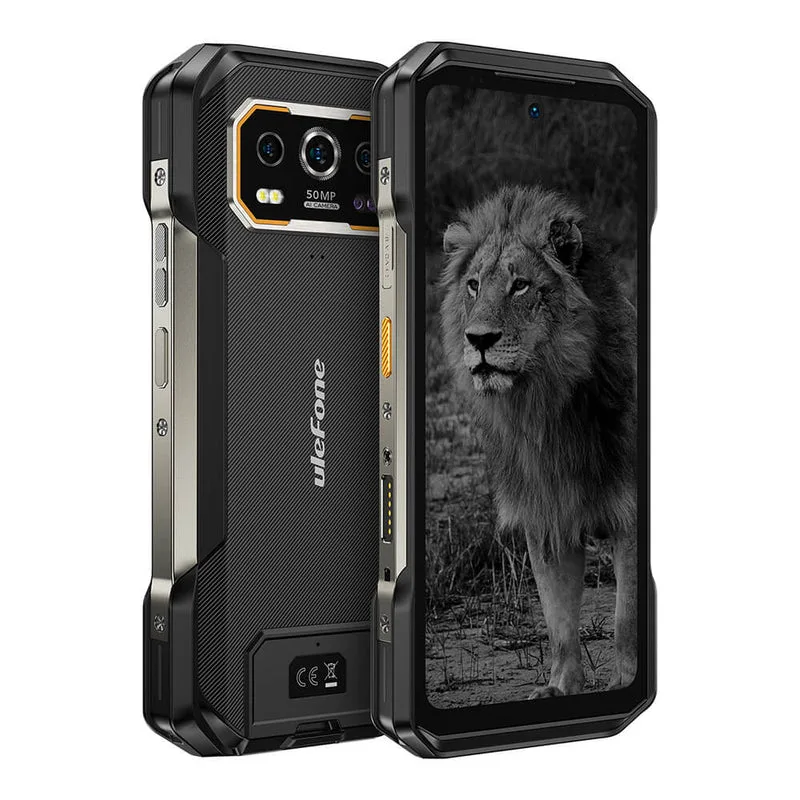
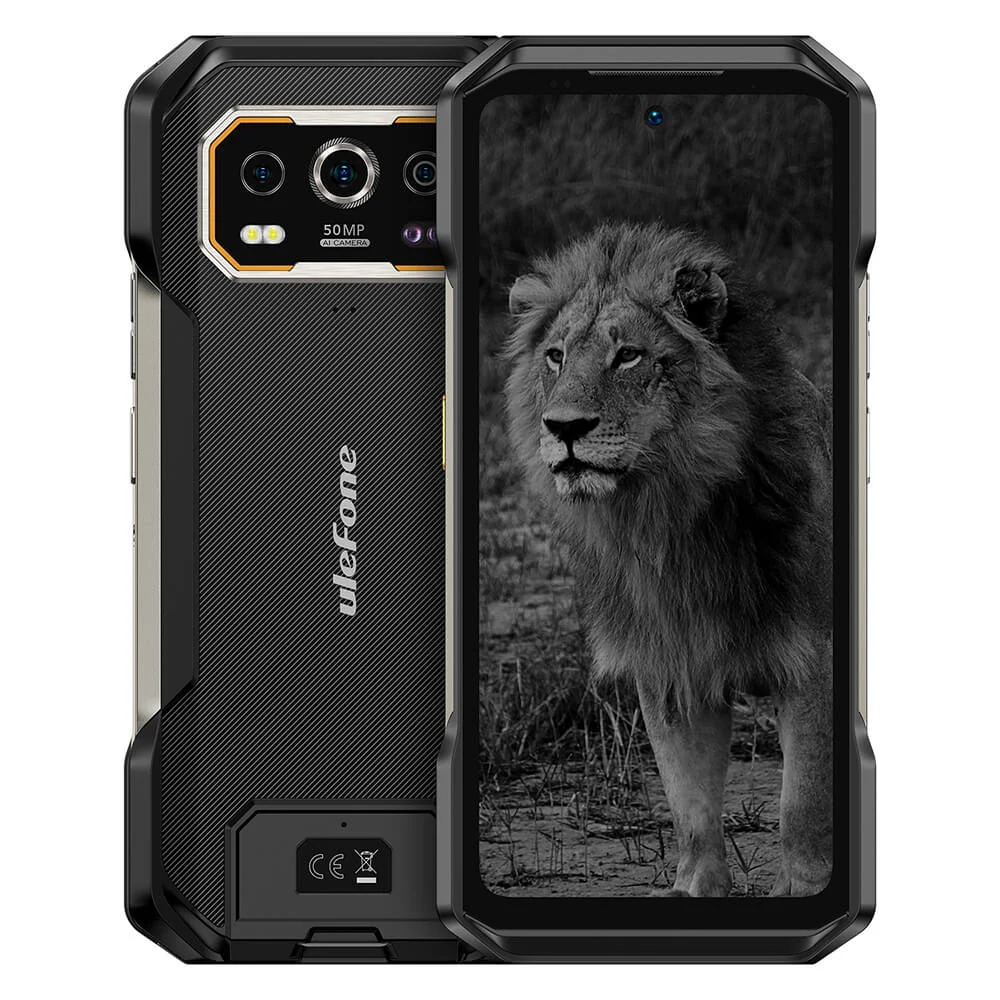
Fix image display: contain mode, clean H6 images
- CSS: switch to object-fit contain so products show properly on white bg
- Replace H6 images: removed "Free Gift Package" marketing overlay
- Using official Ulefone product render from ulefone.com (no store promo text)

diff --git a/css/style.css b/css/style.css
@@ -625,18 +625,18 @@ input, select, textarea { font-family: inherit; font-size: inherit; }
 .product-card-image {
   position: relative;
   aspect-ratio: 1/1;
-  background: linear-gradient(135deg, #f0ede8 0%, #e8e5e0 100%);
+  background: #fff;
   display: flex;
   align-items: center;
   justify-content: center;
   overflow: hidden;
-  padding: 0;
+  padding: 1rem;
 }
 
 .product-card-image img {
   width: 100%;
   height: 100%;
-  object-fit: cover;
+  object-fit: contain;
   transition: transform var(--transition);
 }
 
@@ -1015,7 +1015,8 @@ input, select, textarea { font-family: inherit; font-size: inherit; }
 .product-gallery-main img {
   width: 100%;
   height: 100%;
-  object-fit: cover;
+  object-fit: contain;
+  padding: 1rem;
 }
 
 .product-gallery-thumbs {
